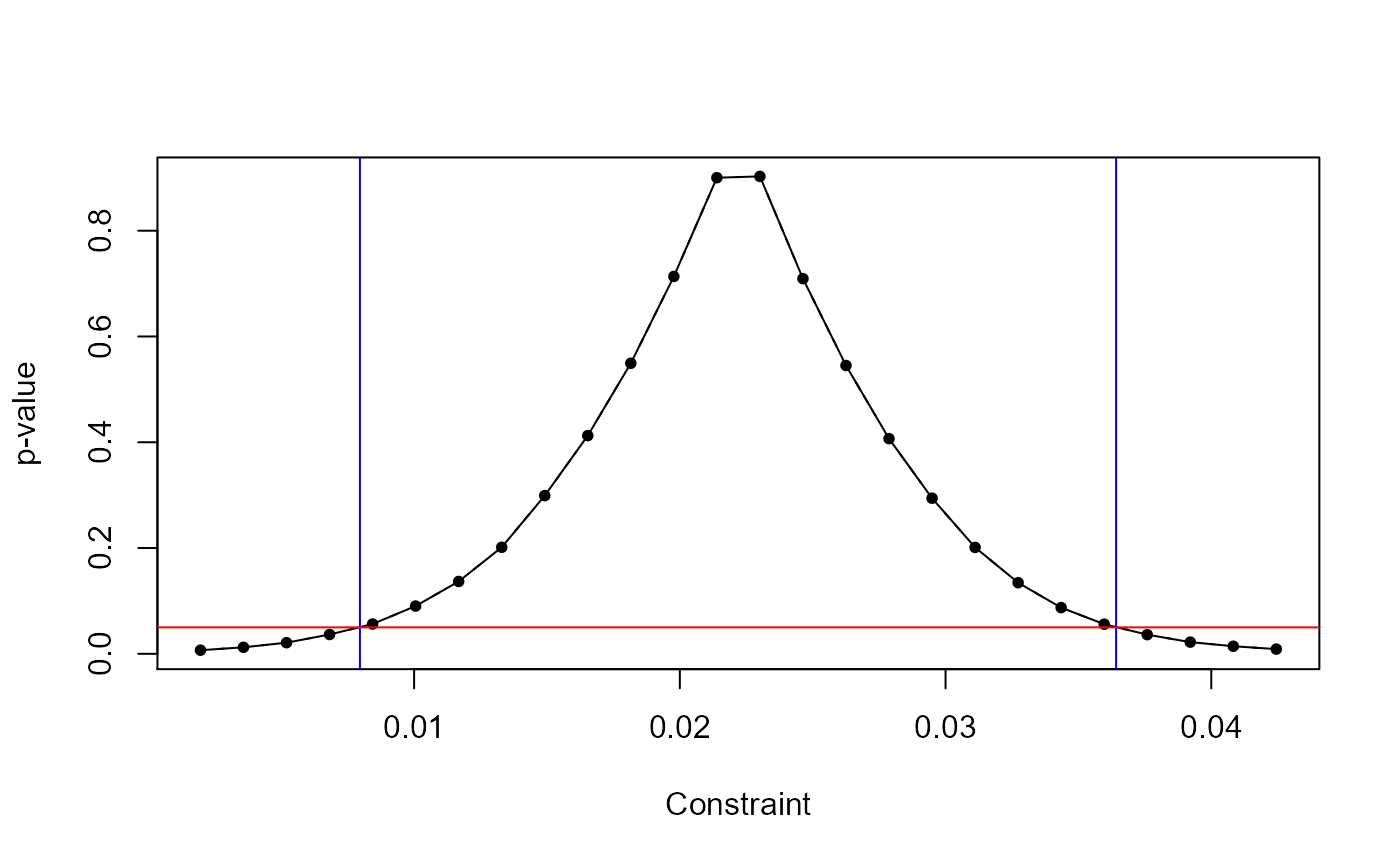
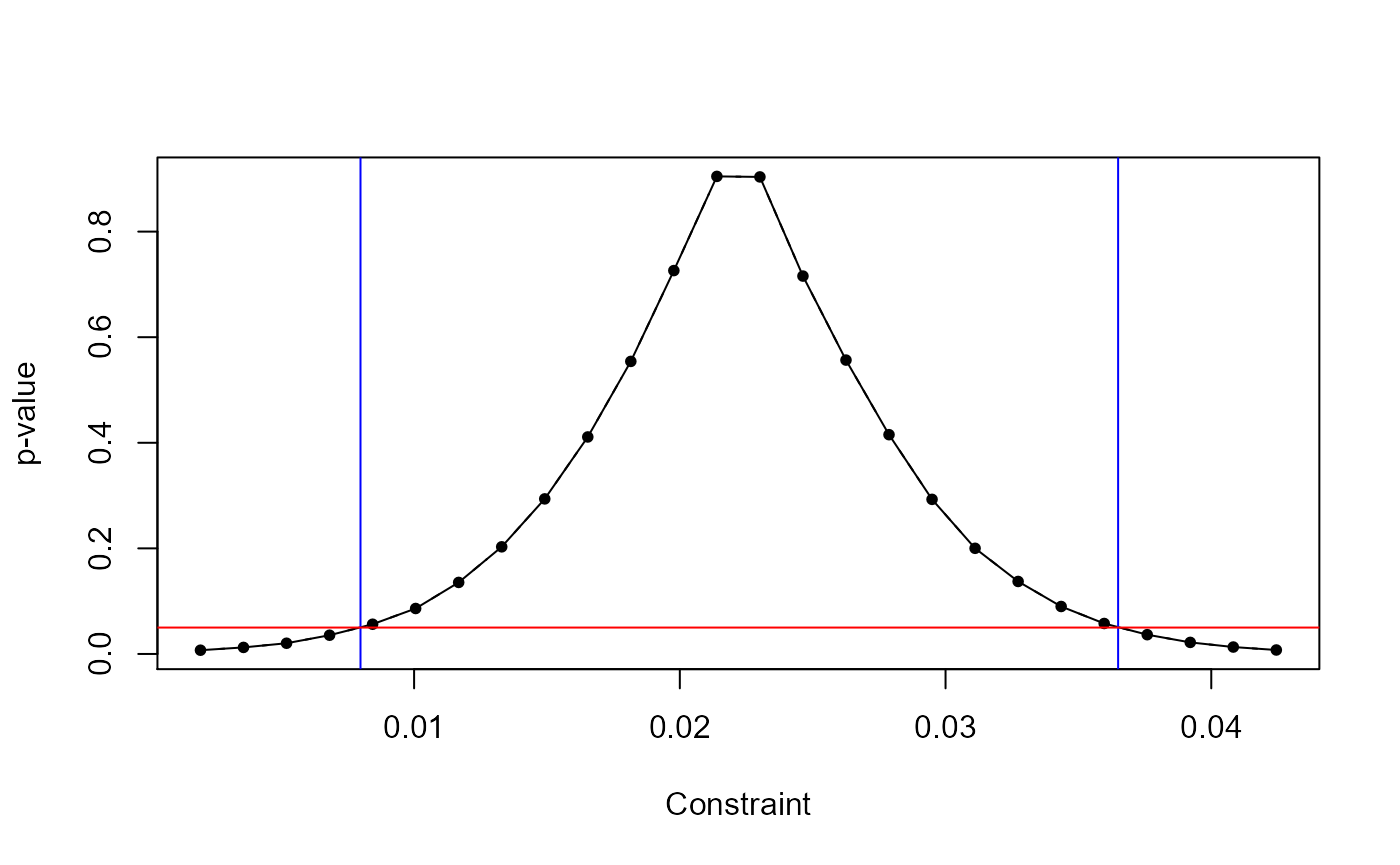
add to docs

diff --git a/docs/articles/fwildclusterboot.html b/docs/articles/fwildclusterboot.html
@@ -163,7 +163,7 @@
 <div class="sourceCode" id="cb5"><pre class="downlit sourceCode r">
 <code class="sourceCode R"><span class="fu"><a href="../reference/tidy.html">tidy</a></span><span class="op">(</span><span class="va">boot_lm</span><span class="op">)</span>
 <span class="co">#&gt;     Estimate  t value   Pr(&gt;|t|)    CI Lower   CI Upper</span>
-<span class="co">#&gt; 1 0.02220441 3.290536 0.00320032 0.007961118 0.03641787</span>
+<span class="co">#&gt; 1 0.02220441 3.290536 0.00420042 0.007982646 0.03649467</span>
 <span class="fu"><a href="https://rdrr.io/r/base/summary.html">summary</a></span><span class="op">(</span><span class="va">boot_lm</span><span class="op">)</span>
 <span class="co">#&gt; boottest.felm(object = felm_fit, param = "treatment", B = 9999, </span>
 <span class="co">#&gt;     clustid = "group_id1")</span>
@@ -176,7 +176,7 @@
 <span class="co">#&gt;  Number of Clusters: 20</span>
 <span class="co">#&gt; </span>
 <span class="co">#&gt;   Estimate t value Pr(&gt;|t|) CI Lower CI Upper</span>
-<span class="co">#&gt; 1    0.022   3.291    0.003    0.008    0.036</span></code></pre></div>
+<span class="co">#&gt; 1    0.022   3.291    0.004    0.008    0.036</span></code></pre></div>
 <p>A <code><a href="https://rdrr.io/r/graphics/plot.default.html">plot()</a></code> method allows the user to inspect the bootstrap t-statistics:</p>
 <div class="sourceCode" id="cb6"><pre class="downlit sourceCode r">
 <code class="sourceCode R"><span class="fu"><a href="https://rdrr.io/r/graphics/plot.default.html">plot</a></span><span class="op">(</span><span class="va">boot_lm</span><span class="op">)</span></code></pre></div>
@@ -200,7 +200,7 @@
 <span class="co">#&gt;  Number of Clusters: 20 10 200</span>
 <span class="co">#&gt; </span>
 <span class="co">#&gt;           Estimate t value Pr(&gt;|t|) CI Lower CI Upper</span>
-<span class="co">#&gt; treatment    0.022   2.801    0.033    0.003    0.042</span></code></pre></div>
+<span class="co">#&gt; treatment    0.022   2.801    0.032    0.003    0.042</span></code></pre></div>
 </div>
 <div id="choice-of-bootstrap-weights" class="section level2">
 <h2 class="hasAnchor">
@@ -230,7 +230,7 @@
 <span class="co">#&gt;  Number of Clusters: 20 10 200</span>
 <span class="co">#&gt; </span>
 <span class="co">#&gt;           Estimate t value Pr(&gt;|t|) CI Lower CI Upper</span>
-<span class="co">#&gt; treatment    0.022   2.801    0.033    0.003    0.041</span>
+<span class="co">#&gt; treatment    0.022   2.801    0.036    0.002    0.042</span>
 <span class="fu"><a href="https://rdrr.io/r/base/summary.html">summary</a></span><span class="op">(</span><span class="va">boot_lm_webb</span><span class="op">)</span>
 <span class="co">#&gt; boottest.lm(object = lm_fit, clustid = c("group_id1", "group_id2"), </span>
 <span class="co">#&gt;     param = "treatment", B = 9999, type = "webb")</span>
@@ -243,7 +243,7 @@
 <span class="co">#&gt;  Number of Clusters: 20 10 200</span>
 <span class="co">#&gt; </span>
 <span class="co">#&gt;           Estimate t value Pr(&gt;|t|) CI Lower CI Upper</span>
-<span class="co">#&gt; treatment    0.022   2.801    0.031    0.003    0.042</span></code></pre></div>
+<span class="co">#&gt; treatment    0.022   2.801    0.034    0.003    0.042</span></code></pre></div>
 </div>
 <div id="other-function-arguments" class="section level2">
 <h2 class="hasAnchor">
@@ -270,7 +270,7 @@
 <span class="co">#&gt;  Number of Clusters: 20</span>
 <span class="co">#&gt; </span>
 <span class="co">#&gt;           Estimate t value Pr(&gt;|t|) CI Lower CI Upper</span>
-<span class="co">#&gt; treatment    0.022   3.291    0.004    0.008    0.037</span>
+<span class="co">#&gt; treatment    0.022   3.291    0.005    0.008    0.036</span>
 <span class="fu"><a href="https://rdrr.io/r/base/summary.html">summary</a></span><span class="op">(</span><span class="va">boot_lm_10</span><span class="op">)</span>
 <span class="co">#&gt; boottest.lm(object = lm_fit, clustid = c("group_id1"), param = "treatment", </span>
 <span class="co">#&gt;     B = 9999, sign_level = 0.1)</span>
@@ -373,10 +373,10 @@
                     bootcluster <span class="op">=</span> <span class="fu"><a href="https://rdrr.io/r/base/c.html">c</a></span><span class="op">(</span><span class="st">"group_id1"</span>, <span class="st">"Q1_immigration"</span><span class="op">)</span><span class="op">)</span>
 <span class="fu"><a href="../reference/tidy.html">tidy</a></span><span class="op">(</span><span class="va">boot_min</span><span class="op">)</span>
 <span class="co">#&gt;             Estimate  t value   Pr(&gt;|t|)    CI Lower   CI Upper</span>
-<span class="co">#&gt; treatment 0.02220441 2.801186 0.01171875 0.004958779 0.04085503</span>
+<span class="co">#&gt; treatment 0.02220441 2.801186 0.02246094 0.003386292 0.04085527</span>
 <span class="fu"><a href="../reference/tidy.html">tidy</a></span><span class="op">(</span><span class="va">boot_2var</span><span class="op">)</span>
 <span class="co">#&gt;             Estimate  t value   Pr(&gt;|t|)    CI Lower   CI Upper</span>
-<span class="co">#&gt; treatment 0.02220441 2.801186 0.02492742 0.003379162 0.04027997</span></code></pre></div>
+<span class="co">#&gt; treatment 0.02220441 2.801186 0.02412171 0.003381743 0.04104081</span></code></pre></div>
 </div>
 <div id="regression-weights-weighted-least-squares-wls" class="section level2">
 <h2 class="hasAnchor">
